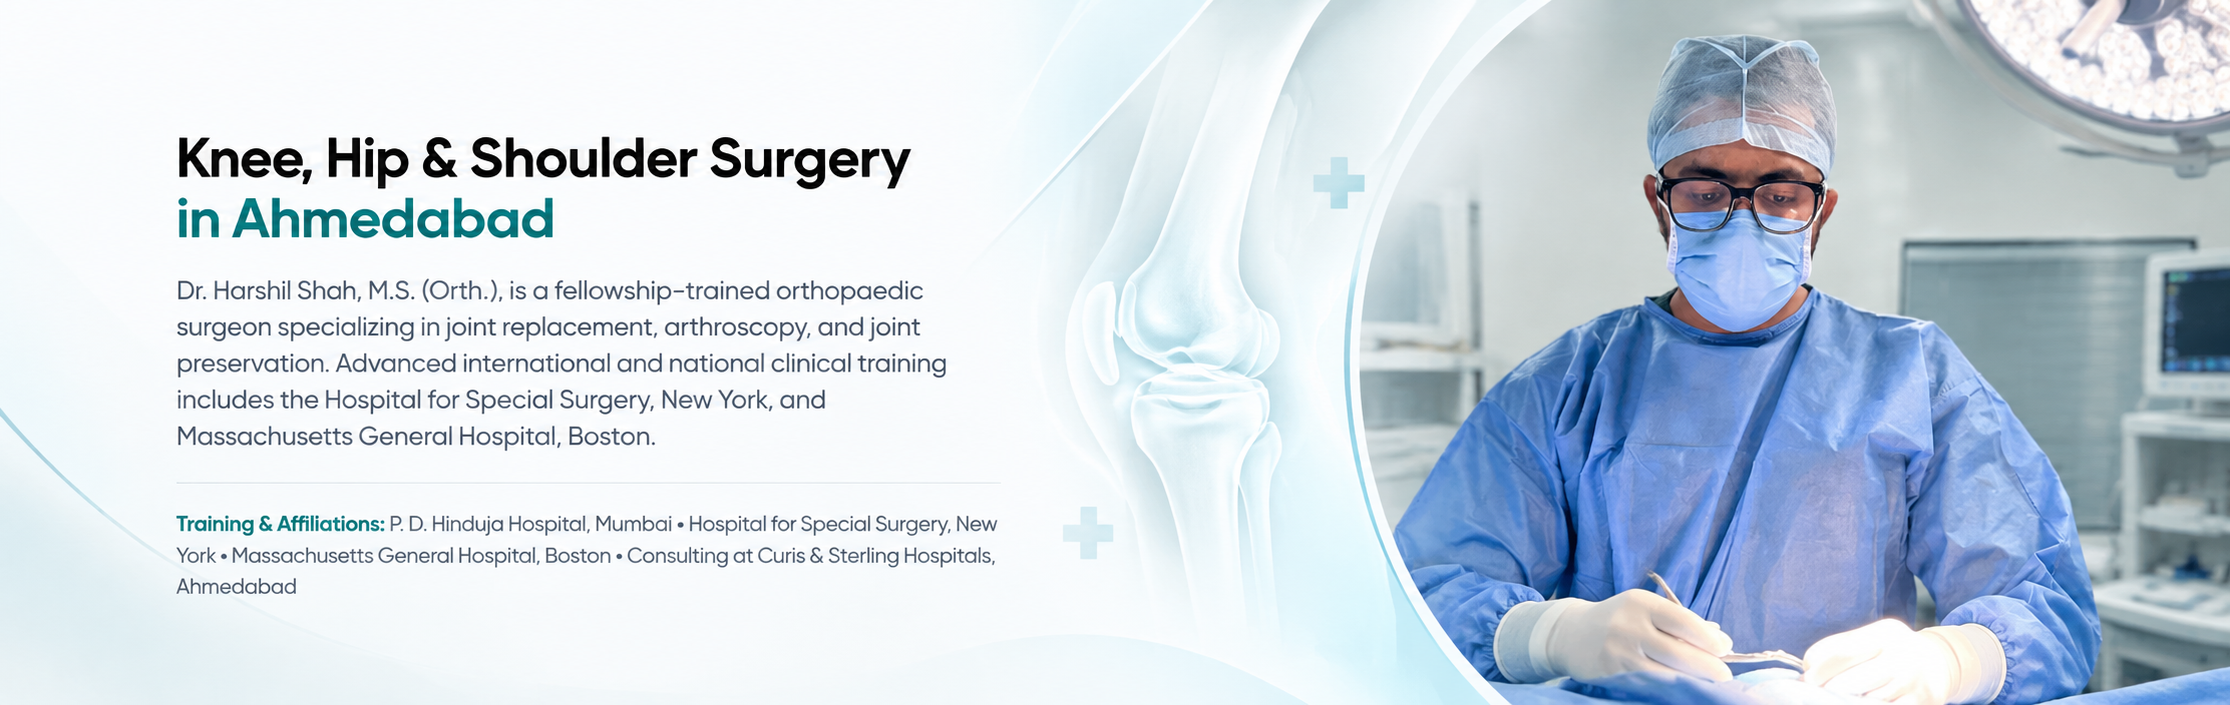
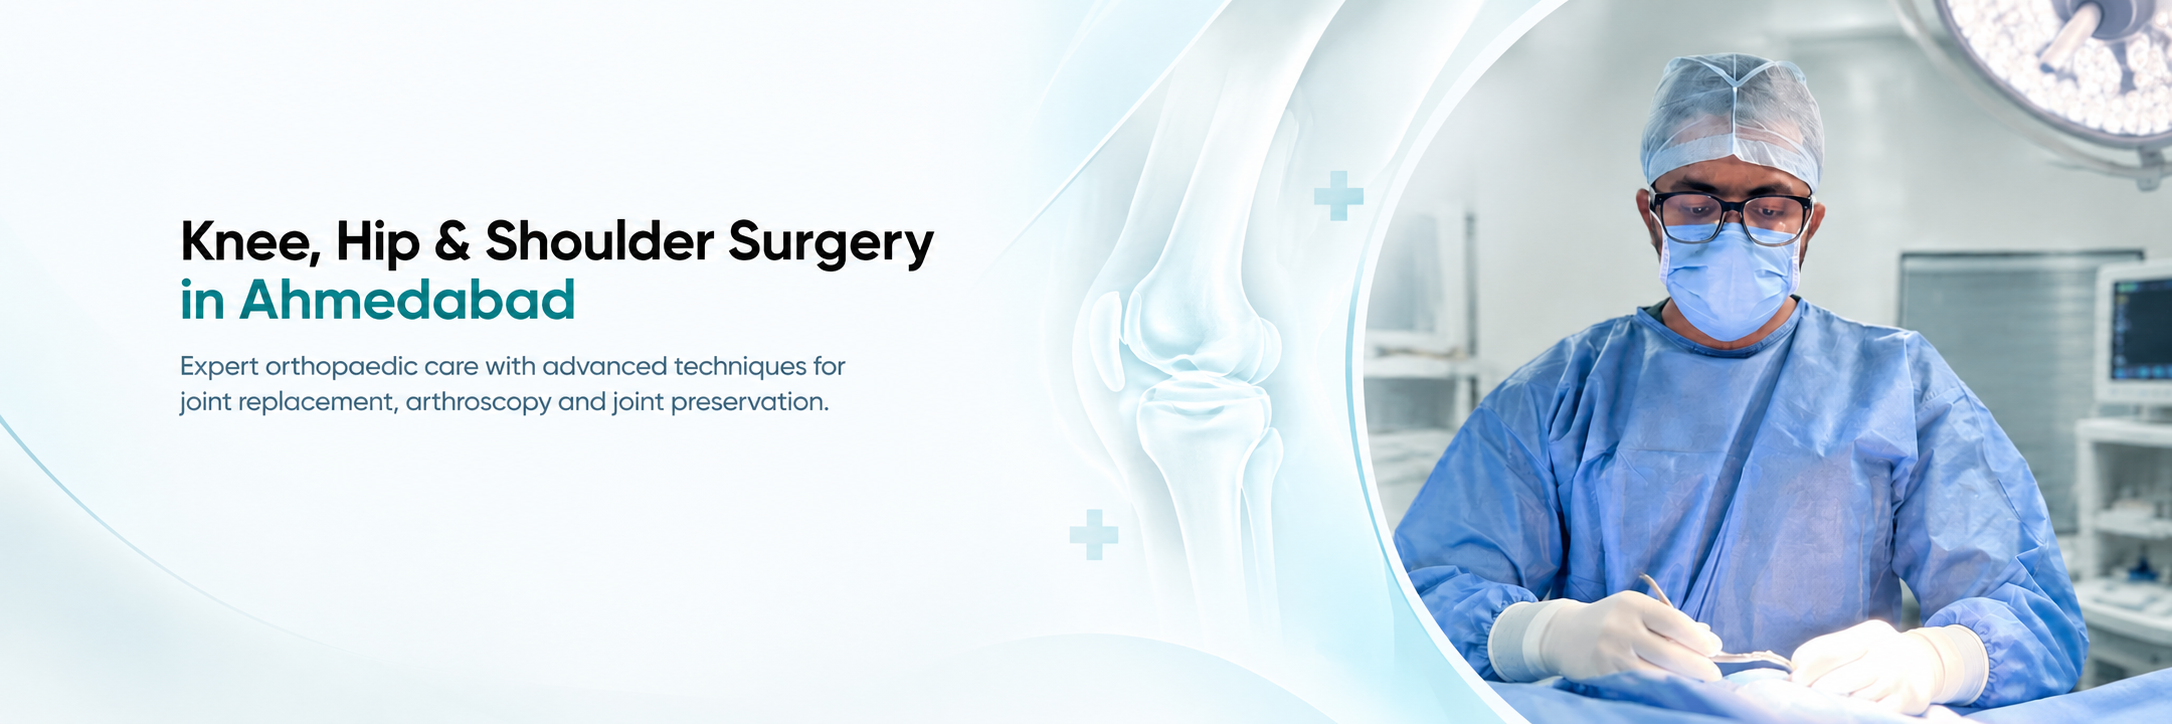
new

diff --git a/src/pages/AppointmentPage.jsx b/src/pages/AppointmentPage.jsx
@@ -377,7 +377,7 @@ export default function AppointmentPage() {
     } catch (error) {
       console.error('EmailJS appointment submission failed:', error);
       setErrorMessage(
-        'Unable to submit your request at this moment. Please call the clinic directly at +91 78749 04030 for immediate booking.'
+        'Unable to submit your request at this moment. Please call the clinic directly at +91 93167 53985 for immediate booking.'
       );
     } finally {
       setLoading(false);
@@ -388,7 +388,7 @@ export default function AppointmentPage() {
     <div className="appt-page-container contact-page-wrapper">
       <SEO
         title="Book an Appointment & Contact | Dr. Harshil Shah Ahmedabad"
-        description="Schedule an in-clinic consultation or second opinion review with Dr. Harshil Shah at Curis Hospitals, Ahmedabad. Call +91 78749 04030 or book online."
+        description="Schedule an in-clinic consultation or second opinion review with Dr. Harshil Shah at Curis Hospitals, Ahmedabad. Call +91 93167 53985 or book online."
         canonicalUrl="/appointment"
         keywords="orthopaedic doctor appointment Ahmedabad, Dr Harshil Shah contact, Curis Hospitals Bodakdev, knee doctor booking"
         schema={{
@@ -403,7 +403,7 @@ export default function AppointmentPage() {
             {
               '@type': 'MedicalClinic',
               name: 'Dr. Harshil Shah Orthopaedic Clinic',
-              telephone: '+91-78749-04030',
+              telephone: '+91-93167-53985',
               address: {
                 '@type': 'PostalAddress',
                 streetAddress: 'Curis Hospitals, Sindhubhavan Road, Bodakdev',
@@ -485,8 +485,8 @@ export default function AppointmentPage() {
               </div>
               <div className="appt-call-copy">
                 <small>Need urgent scheduling assistance?</small>
-                <a href="tel:+917874904030" className="appt-call-link">
-                  +91 78749 04030
+                <a href="tel:+919316753985" className="appt-call-link">
+                  +91 93167 53985
                 </a>
               </div>
             </div>
@@ -501,8 +501,8 @@ export default function AppointmentPage() {
               </div>
               <div className="appt-call-copy" style={{ minWidth: 0 }}>
                 <small>Email consultation & reports</small>
-                <a href="mailto:appointments@drharshilshah.com" className="appt-call-link appt-email-link" title="Email Dr. Harshil Shah">
-                  appointments@drharshilshah.com
+                <a href="mailto:drharshilshah25@gmail.com" className="appt-call-link appt-email-link" title="Email Dr. Harshil Shah">
+                  drharshilshah25@gmail.com
                 </a>
               </div>
             </div>
@@ -679,7 +679,7 @@ export default function AppointmentPage() {
                       </svg>
                     </button>
                     <a
-                      href="https://wa.me/917874904030"
+                      href="https://wa.me/919316753985"
                       target="_blank"
                       rel="noopener noreferrer"
                       className="appt-btn-secondary"

diff --git a/src/components/Footer.jsx b/src/components/Footer.jsx
@@ -46,7 +46,7 @@ export default function Footer() {
           {/* Social Links Row in Footer */}
           <div className="footer-social-row" style={{ display: 'flex', gap: '12px', marginTop: '16px' }}>
             <a
-              href="https://wa.me/917874904030"
+              href="https://wa.me/919316753985"
               target="_blank"
               rel="noopener noreferrer"
               aria-label="WhatsApp"
@@ -160,7 +160,7 @@ export default function Footer() {
           </a>
           <a
             className="footer-contact-link"
-            href="tel:+917874904030"
+            href="tel:+919316753985"
           >
             <span className="footer-contact-icon">
               <svg viewBox="0 0 24 24" width="16" height="16" fill="none" stroke="currentColor" strokeWidth="2" strokeLinecap="round" strokeLinejoin="round">
@@ -168,12 +168,12 @@ export default function Footer() {
               </svg>
             </span>
             <span className="footer-contact-text">
-              +91 78749 04030
+              +91 93167 53985
             </span>
           </a>
           <a
             className="footer-contact-email"
-            href="mailto:appointments@drharshilshah.com"
+            href="mailto:drharshilshah25@gmail.com"
           >
             <span className="footer-contact-icon">
               <svg viewBox="0 0 24 24" width="16" height="16" fill="none" stroke="currentColor" strokeWidth="2" strokeLinecap="round" strokeLinejoin="round">
@@ -182,14 +182,14 @@ export default function Footer() {
               </svg>
             </span>
             <span className="footer-contact-text">
-              appointments@drharshilshah.com
+              drharshilshah25@gmail.com
             </span>
           </a>
 
           <a
-            href="tel:+917874904030"
+            href="tel:+919316753985"
             className="footer-emergency-link"
-            title="Call +91 78749 04030 for emergency assistance"
+            title="Call +91 93167 53985 for emergency assistance"
             style={{ marginTop: '12px' }}
           >
             <span className="footer-emergency-pulse" aria-hidden="true"></span>

diff --git a/src/data/faqData.js b/src/data/faqData.js
@@ -21,7 +21,7 @@ export const faqData = [
     category: 'Appointments',
     question: 'How do I book an appointment with Dr. Harshil Shah?',
     answer:
-      'You can schedule a consultation by completing the online appointment form on this website or by contacting the clinic via phone or WhatsApp at +91 78749 04030. The clinic desk will assist you in confirming a suitable date and consultation slot.',
+      'You can schedule a consultation by completing the online appointment form on this website or by contacting the clinic via phone or WhatsApp at +91 93167 53985. The clinic desk will assist you in confirming a suitable date and consultation slot.',
     keywords: ['book appointment', 'online consultation', 'WhatsApp booking', 'Dr Harshil Shah appointment', 'Ahmedabad clinic'],
     featured: true,
   },
@@ -86,7 +86,7 @@ export const faqData = [
     category: 'Appointments',
     question: 'What should I do if my joint pain or injury requires urgent attention?',
     answer:
-      'For acute, severe pain or sudden injuries, contact the clinic line at +91 78749 04030 to check for an expedited consultation slot. If you experience major trauma, visible deformity, numbness, weakness, loss of sensation, a cold or pale limb, or breathing difficulty, proceed directly to the nearest hospital emergency department.',
+      'For acute, severe pain or sudden injuries, contact the clinic line at +91 93167 53985 to check for an expedited consultation slot. If you experience major trauma, visible deformity, numbness, weakness, loss of sensation, a cold or pale limb, or breathing difficulty, proceed directly to the nearest hospital emergency department.',
     keywords: ['urgent orthopaedic appointment', 'acute joint pain', 'emergency bone injury'],
   },
 

diff --git a/src/components/Topbar.jsx b/src/components/Topbar.jsx
@@ -5,23 +5,23 @@ export default function Topbar() {
     <div className="topbar">
       <div className="shell topbar-inner">
         <div className="topbar-primary">
-          <a href="tel:+917874904030" className="topbar-phone" title="Call +91 78749 04030">
+          <a href="tel:+919316753985" className="topbar-phone" title="Call +91 93167 53985">
             <span className="topbar-icon">
               <svg viewBox="0 0 24 24" aria-hidden="true">
                 <path d="M7.1 3.8 4.8 5.1c-.7.4-1 1.2-.8 2 1.1 5.8 5.7 10.4 11.5 11.5.8.2 1.6-.1 2-.8l1.3-2.3-4-1.9-1.2 1.7a11.8 11.8 0 0 1-5-5L10.3 9 8.4 5Z" />
               </svg>
             </span>
-            <span className="topbar-phone-text">+91 78749 04030</span>
+            <span className="topbar-phone-text">+91 93167 53985</span>
           </a>
           <span className="topbar-divider" aria-hidden="true"></span>
-          <a href="mailto:harshilshah199706@gmail.com" className="topbar-email" title="Email harshilshah199706@gmail.com">
+          <a href="mailto:drharshilshah25@gmail.com" className="topbar-email" title="Email drharshilshah25@gmail.com">
             <span className="topbar-icon">
               <svg viewBox="0 0 24 24" aria-hidden="true">
                 <rect x="3" y="5" width="18" height="14" rx="2.5" />
                 <path d="m4.5 7 7.5 6 7.5-6" />
               </svg>
             </span>
-            <span className="topbar-email-text">harshilshah199706@gmail.com</span>
+            <span className="topbar-email-text">drharshilshah25@gmail.com</span>
           </a>
         </div>
         <div className="topbar-actions">

diff --git a/index.html b/index.html
@@ -92,8 +92,8 @@
           "medicalSpecialty": "Orthopedic Surgery",
           "url": "https://www.drharshilshah.com",
           "image": "https://www.drharshilshah.com/doctor-hero-office.png",
-          "telephone": "+91-78749-04030",
-          "email": "appointments@drharshilshah.com",
+          "telephone": "+91-93167-53985",
+          "email": "drharshilshah25@gmail.com",
           "address": {
             "@type": "PostalAddress",
             "streetAddress": "Curis Hospitals, Sindhubhavan Road, Bodakdev",
@@ -111,7 +111,7 @@
             "https://www.instagram.com/drharshilshah_/",
             "https://www.linkedin.com/in/harshil-shah-45b730321/",
             "https://www.youtube.com/@drharshilshahh",
-            "https://wa.me/917874904030"
+            "https://wa.me/919316753985"
           ]
         },
         {
@@ -121,7 +121,7 @@
           "url": "https://www.drharshilshah.com",
           "logo": "https://www.drharshilshah.com/logo.png",
           "image": "https://www.drharshilshah.com/doctor-hero-office.png",
-          "telephone": "+91-78749-04030",
+          "telephone": "+91-93167-53985",
           "priceRange": "₹₹",
           "address": {
             "@type": "PostalAddress",

diff --git a/src/pages/PrivacyPolicyPage.jsx b/src/pages/PrivacyPolicyPage.jsx
@@ -80,8 +80,8 @@ export default function PrivacyPolicyPage() {
         <p style={{ marginTop: '8px' }}>
           <strong>Practitioner:</strong> Dr. Harshil Shah, M.S. (Orth.) · Reg. No. G-36119 (Gujarat Medical Council)<br />
           <strong>Address:</strong> Curis Hospitals, Sindhubhavan Road, Bodakdev, Ahmedabad, Gujarat 380054<br />
-          <strong>Phone:</strong> <a href="tel:+917874904030" style={{ color: '#146c72' }}>+91 78749 04030</a><br />
-          <strong>Email:</strong> <a href="mailto:appointments@drharshilshah.com" style={{ color: '#146c72' }}>appointments@drharshilshah.com</a>
+          <strong>Phone:</strong> <a href="tel:+919316753985" style={{ color: '#146c72' }}>+91 93167 53985</a><br />
+          <strong>Email:</strong> <a href="mailto:drharshilshah25@gmail.com" style={{ color: '#146c72' }}>drharshilshah25@gmail.com</a>
         </p>
       </section>
 

diff --git a/src/pages/FaqPage.jsx b/src/pages/FaqPage.jsx
@@ -307,7 +307,7 @@ export default function FaqPage() {
                     <span className="mock-btn-primary-arrow">&rarr;</span>
                   </Link>
                   <a
-                    href="https://wa.me/917874904030?text=Hello%2C%20I%20would%20like%20help%20regarding%20an%20orthopaedic%20consultation."
+                    href="https://wa.me/919316753985?text=Hello%2C%20I%20would%20like%20help%20regarding%20an%20orthopaedic%20consultation."
                     target="_blank"
                     rel="noreferrer"
                     className="mock-btn-whatsapp"

diff --git a/src/pages/HomePage.jsx b/src/pages/HomePage.jsx
@@ -855,7 +855,7 @@ export default function HomePage() {
                   <span className="mock-btn-primary-arrow">&rarr;</span>
                 </Link>
                 <a
-                  href="https://wa.me/917874904030?text=Hello%20Dr.%20Harshil%20Shah,%20I%20would%20like%20to%20consult%20online"
+                  href="https://wa.me/919316753985?text=Hello%20Dr.%20Harshil%20Shah,%20I%20would%20like%20to%20consult%20online"
                   target="_blank"
                   rel="noreferrer"
                   className="mock-btn-whatsapp"

diff --git a/src/pages/SurgicalVideosPage.jsx b/src/pages/SurgicalVideosPage.jsx
@@ -643,7 +643,7 @@ export default function SurgicalVideosPage() {
                 </Link>
 
                 <a
-                  href="https://wa.me/917874904030?text=Hello%2C%20I%20have%20questions%20regarding%20surgical%20options."
+                  href="https://wa.me/919316753985?text=Hello%2C%20I%20have%20questions%20regarding%20surgical%20options."
                   target="_blank"
                   rel="noreferrer"
                   className="surgical-cta-whatsapp"

diff --git a/src/components/FloatingSocialBar.jsx b/src/components/FloatingSocialBar.jsx
@@ -3,7 +3,7 @@ import React from 'react';
 export default function FloatingSocialBar() {
   return (
     <a
-      href="https://wa.me/917874904030"
+      href="https://wa.me/919316753985"
       target="_blank"
       rel="noopener noreferrer"
       aria-label="Chat on WhatsApp with Dr. Harshil Shah"
